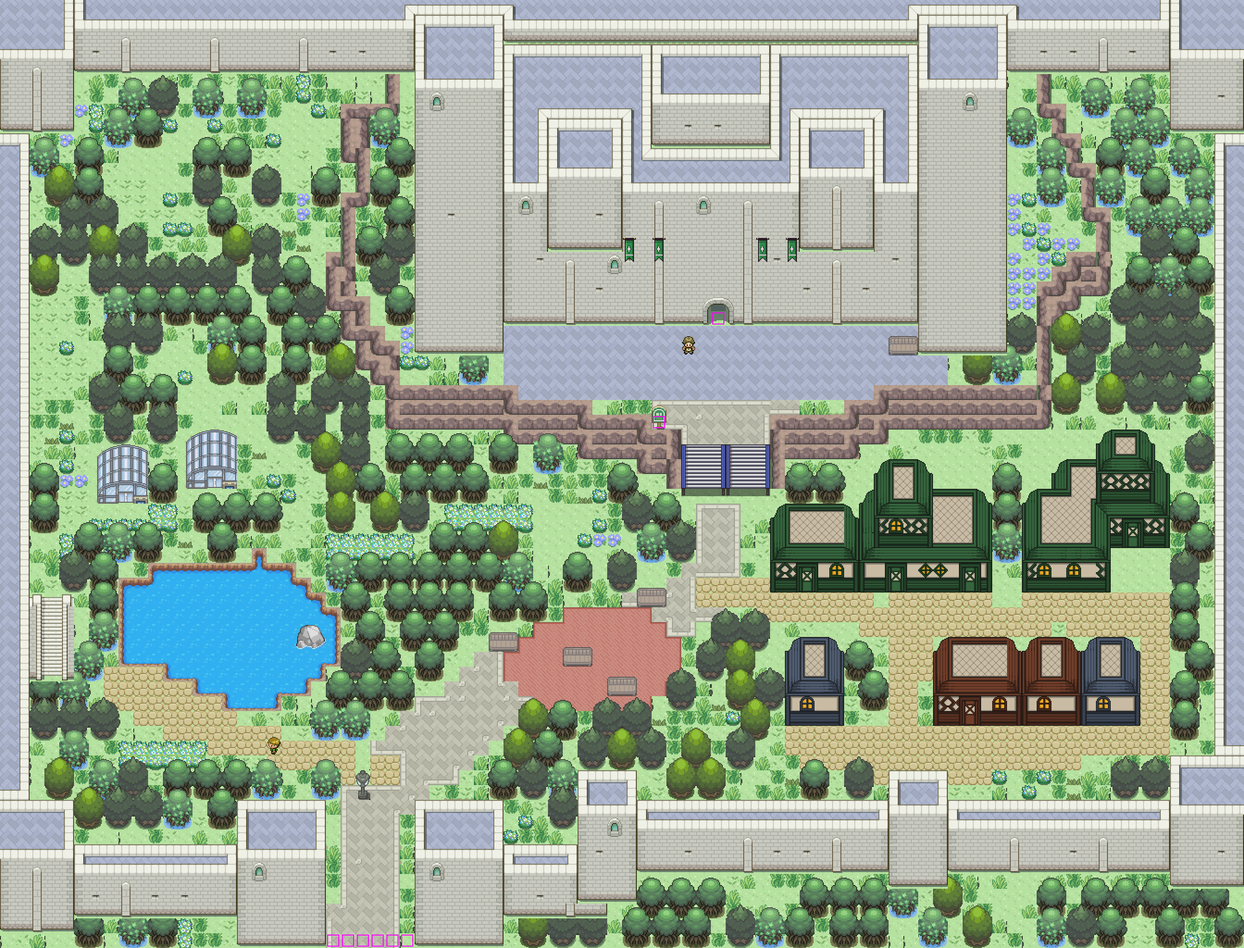
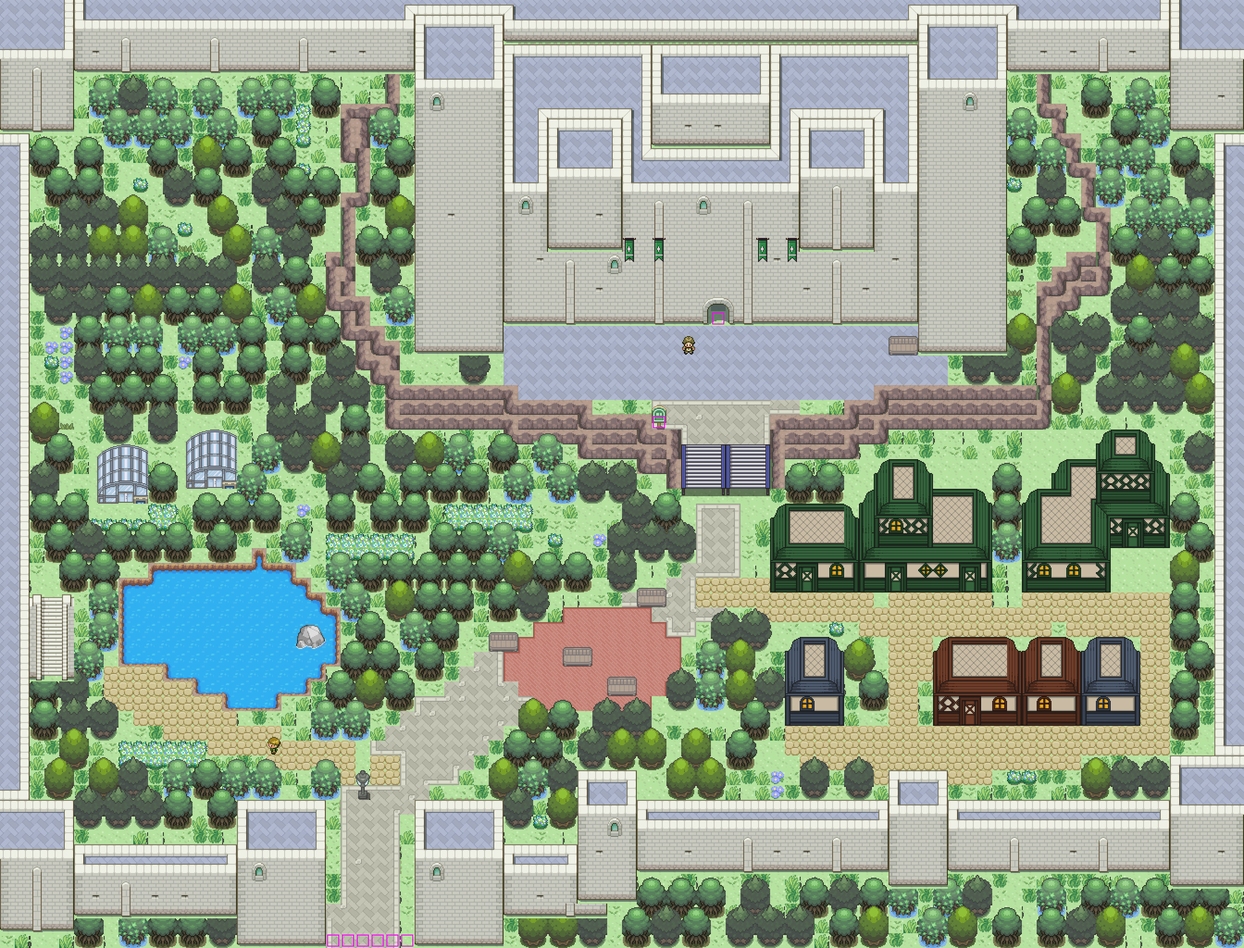
City maps fix round: asymmetric plans, river, hilltop palace, recolours, interiors
Claude-Session: https://claude.ai/code/session_01SBLHz7mq5tij8ELd9mbfG8

diff --git a/mapgen/layouts/verdance_city.py b/mapgen/layouts/verdance_city.py
@@ -159,7 +159,7 @@ def build_285():
                 if c.g[yy][xx] == '.' and not c.taken[yy][xx]: c.g[yy][xx] = 'h'; c.taken[yy][xx] = True
     c.edge_props(['t_lamp', 't_lamp', 't_bench', 't_barrel'], 14, 'cgb', 1)
     c.inlay(0, 0, W - 1, H - 1, 'c', [3916], 0.08)
-    c.greenfill(0.26, 3)
+    c.greenfill(0.14, 3)
     c.sea_rocks(3)
     c.events = E
     c.warp_line([(48, 21)], 286, [(16, 22)], 'up')

diff --git a/design/MAPGEN.md b/design/MAPGEN.md
@@ -140,10 +140,22 @@ The stock intro's controls tutorial is not reproduced.
 - **Verdance** (`layouts/verdance_city.py`): 280 Market Terraces 104x88, 285 Briar Hall Upper Court 84x64, 286 Great
   Hall 33x25 and 287 Throne Room 27x27 (interiors built from the castle kit with `room()`). Placeholder events only.
 - `walk_ignore:` (default wall, tower, keep) keeps unreachable parapet walks out of the cut-off warning.
-- **Open items:** Verdance 281/282/295 interiors (three unresolved doors), 283/284/289/294/296 districts, no column,
-  chandelier or stained-glass art, 540/560 still declare stale connection offsets to 140 (140's own win), the Act I
-  maps other than Saltmere are still on the stock tilesets, and all five city exteriors fail parts of the rubric
-  (numbers print at build time).
+- **Fix round (organic plans).** Layouts no longer use bands and rectangular quarters. `citykit` gained `hills` (noise-edged
+  height blobs), `notch` (a straight step for a stairway), `front_place` / `frontage` (houses packed along the north side of
+  every street), `backfill` (second rank), `greenfill` (leftover land becomes tree masses and beds), `edge_props`, `snap`
+  (seat an event on the nearest street cell) and a **symmetry guard**: `write()` aborts when more than 40% of plan cells equal
+  their mirror image (interiors pass `mirror_max=1.0`). Houses only front streets from the north, so a lane needs 7 clear
+  rows above it; that spacing is why lanes sit where they do.
+- Roofs: `textract.py` and `wextract.py` move the top 60% of each building's rows to layer 3 where it was empty, and
+  `k_castle` puts the walk-behind south parapet on layer 3 (as Prizca Castle does). Rendering and passability are unchanged.
+- Timber variants: `compose_tileset.py` appends slate and moss recolours of the Sheridan sheet; stamps `w_*_s`, `w_*_m`.
+- Saltmere warps now: harbour stairs 140 (56-61, 71) <-> 146 (42-47, 3); Players' Gate 140 (87, 42-45) <-> 147 (0, 36-39).
+  HealingSpot 140 (28, 30). Verdance: palace arch 280 (71, 9) <-> 285 south gate (22-27, 63); keep arch 285 (48, 21) -> 286.
+- Interiors added: 281 / 282 (stock Poké Center and Mart templates, placeholders), 295 Cathedral (castle-kit room).
+  `yards_ok: true` in a spec silences the cut-off-tiles warning for enclosed back gardens (events are still checked).
+- **Open items:** 146 fails the mirror number (20.2 against 15) because 40% of it is open sea, which the rubric exempts;
+  no column, chandelier, stained-glass, fountain, well or statue art; 283/284/289/294/296 districts not built; 540/560 still
+  declare stale connection offsets to 140 (140's own win); Act I maps other than Saltmere are still on stock tilesets.
 
 ## 3. Regenerating
 ```
